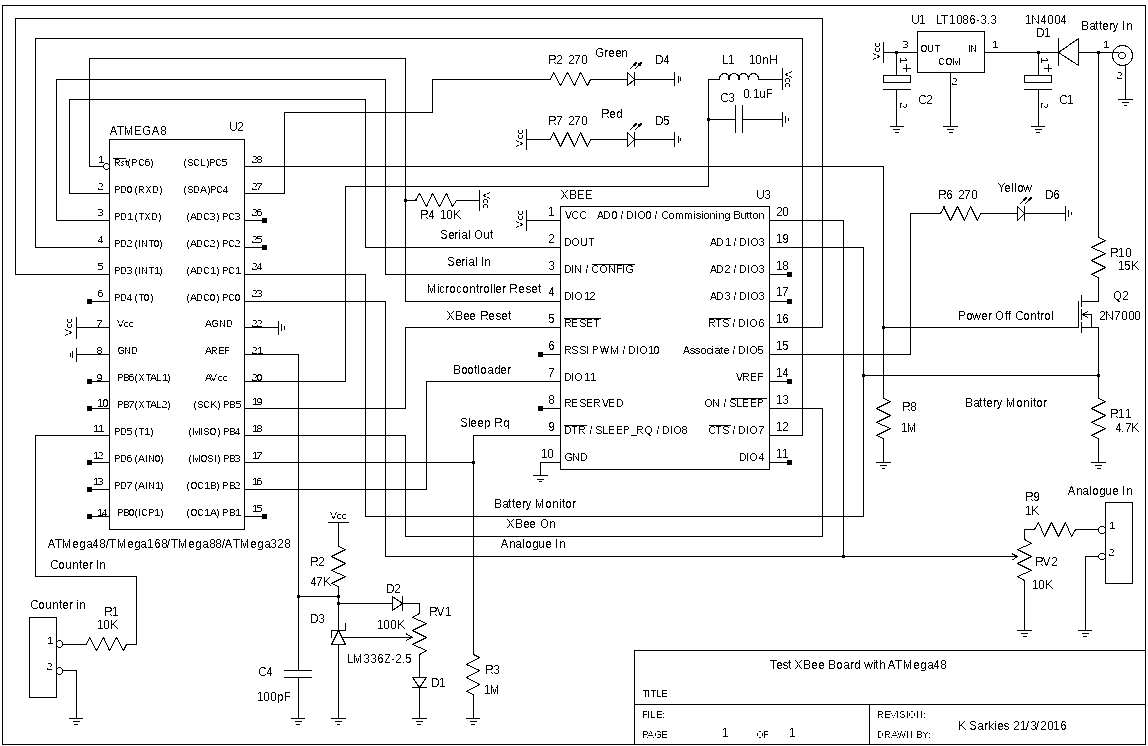
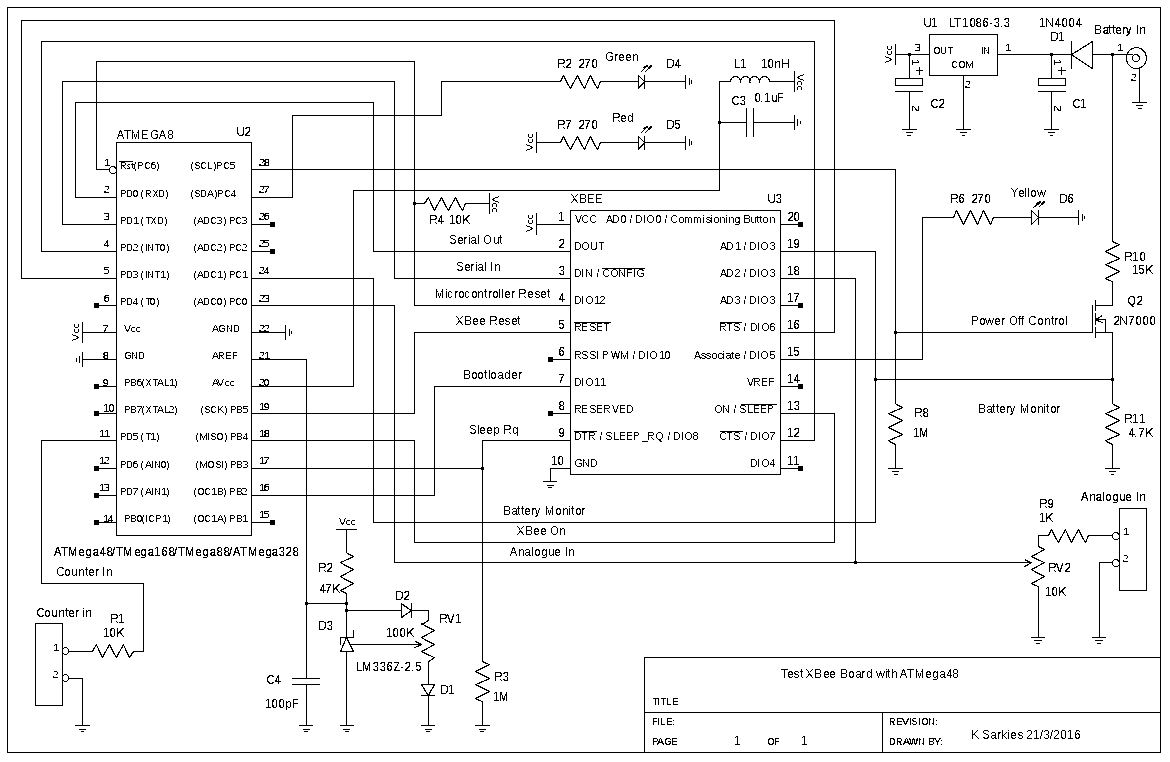
Change atmega48 node to shift analogue input to AD2 on XBee away from commissioning button.

diff --git a/gEDA-XBee-Test/README.md b/gEDA-XBee-Test/README.md
@@ -11,15 +11,17 @@ for the electronics.
 
 The microcontroller has the following I/O pin allocations:
 
-* PB2 (in) Bootloader Enable
-* PB3 (out) Sleep Request
-* PB4 (in) XBee Asleep (inv)
-* PB5 (out) XBee Reset (inv)
-* PC0 (in) Board Analogue Input
-* PC1 (in) Battery Monitor Analogue Input
-* PC4 (out) Microcontroller Activity LED
-* PC5 (out) Battery Monitor Control
-* PD5 (in) Board Digital Input
+* PB2 (in) Bootloader Enable taken from XBee DIO11 pin..
+* PB3 (out) XBee Sleep Request.
+* PB4 (in) XBee Asleep (inv).
+* PB5 (out) XBee Reset (inv) taken to the XBee reset pin.
+* PC0 (in) Board Analogue Input also taken to XBee AD2 pin.
+* PC1 (in) Battery Monitor Analogue Input also taken to XBee AD1 pin.
+* PC4 (out) Microcontroller Activity LED.
+* PC5 (out) Battery Monitor Control.
+* PD2 (in) taken from XBee CTS pin.
+* PD5 (in) Board Digital Input.
+* Microcontroller Reset taken from XBee DIO12 pin.
 
 Three LEDs are provided:
 * Green     PC4 Microcontroller Activity from ATMega48.
